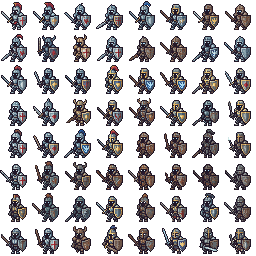
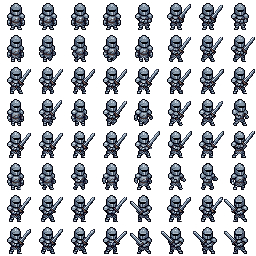
Ny bild på den levande rustningen
Tvåhandssvärd, ingen sköld, ingen röd kam och ingen vit ögonprick –
klassisk brittisk medeltida stil. Rutorna i arket bytta till
sta:16 (svärdet vilar över axeln) och anfall:63 (hugg mot hjältarna).

Claude-Session: https://claude.ai/code/session_01E1AUD1R16VvpqkHNpZgpEB

diff --git a/dev/figurval.js b/dev/figurval.js
@@ -43,7 +43,7 @@ window.FIGURVAL={
  askskelett:{sta:0,anfall:5},bandit:{sta:0,anfall:12,flip:true},bjorn:{sta:0,anfall:5,flip:true},bo:{sta:0,flip:true},dimvarg:{sta:0,anfall:4},dimvasen:{sta:0,anfall:1},
  eldimp:{sta:0,anfall:4},eldprast:{sta:0,anfall:4,flip:true},eldsalamander:{sta:0,anfall:4},ent:{cell:32,sta:0,anfall:4},fladdermus:{sta:0,anfall:2},gargoyl:{sta:0,anfall:1,flip:true},
  giftspindel:{sta:0,anfall:5},haxa:{sta:0,anfall:2,flip:true},irrbloss:{sta:0,anfall:9,storlek:1.2},kobold:{sta:0,anfall:7,flip:true},krak:{sta:0,anfall:1},krakor:{sta:0,anfall:1},
- kultist:{sta:0,anfall:4,flip:true},lavahund:{sta:0,anfall:9},levande_rustning:{sta:0,anfall:1},magmaslem:{sta:0,anfall:6},nekromantiker:{sta:0,anfall:5,flip:true},orm:{sta:0,anfall:5},
+ kultist:{sta:0,anfall:4,flip:true},lavahund:{sta:0,anfall:9},levande_rustning:{sta:16,anfall:63},magmaslem:{sta:0,anfall:6},nekromantiker:{sta:0,anfall:5,flip:true},orm:{sta:0,anfall:5},
  ratta:{sta:0,anfall:1,flip:true},rovarhovding:{sta:0,anfall:5,flip:true},skelett:{sta:0,anfall:1,flip:true},skuggling:{sta:0,anfall:1},slem:{sta:0,anfall:4},spindel:{sta:0,anfall:5},
  spoke:{sta:0,anfall:10},spokriddare:{sta:0,anfall:1},svampman:{sta:0,anfall:1,flip:true},troll:{sta:0,anfall:4},troll_is:{ark:"troll",sta:24,storlek:3},vampyrfladdermus:{sta:0,anfall:2},varg:{sta:0,anfall:10,flip:true},
  varulv:{sta:0,anfall:2},vatte:{sta:0,anfall:1,flip:true},vattesjaman:{sta:0,anfall:3,flip:true},vildsvin:{sta:0,anfall:8},

diff --git a/figurval.js b/figurval.js
@@ -43,7 +43,7 @@ window.FIGURVAL={
  askskelett:{sta:0,anfall:5},bandit:{sta:0,anfall:12,flip:true},bjorn:{sta:0,anfall:5,flip:true},bo:{sta:0,flip:true},dimvarg:{sta:0,anfall:4},dimvasen:{sta:0,anfall:1},
  eldimp:{sta:0,anfall:4},eldprast:{sta:0,anfall:4,flip:true},eldsalamander:{sta:0,anfall:4},ent:{cell:32,sta:0,anfall:4},fladdermus:{sta:0,anfall:2},gargoyl:{sta:0,anfall:1,flip:true},
  giftspindel:{sta:0,anfall:5},haxa:{sta:0,anfall:2,flip:true},irrbloss:{sta:0,anfall:9,storlek:1.2},kobold:{sta:0,anfall:7,flip:true},krak:{sta:0,anfall:1},krakor:{sta:0,anfall:1},
- kultist:{sta:0,anfall:4,flip:true},lavahund:{sta:0,anfall:9},levande_rustning:{sta:0,anfall:1},magmaslem:{sta:0,anfall:6},nekromantiker:{sta:0,anfall:5,flip:true},orm:{sta:0,anfall:5},
+ kultist:{sta:0,anfall:4,flip:true},lavahund:{sta:0,anfall:9},levande_rustning:{sta:16,anfall:63},magmaslem:{sta:0,anfall:6},nekromantiker:{sta:0,anfall:5,flip:true},orm:{sta:0,anfall:5},
  ratta:{sta:0,anfall:1,flip:true},rovarhovding:{sta:0,anfall:5,flip:true},skelett:{sta:0,anfall:1,flip:true},skuggling:{sta:0,anfall:1},slem:{sta:0,anfall:4},spindel:{sta:0,anfall:5},
  spoke:{sta:0,anfall:10},spokriddare:{sta:0,anfall:1},svampman:{sta:0,anfall:1,flip:true},troll:{sta:0,anfall:4},troll_is:{ark:"troll",sta:24,storlek:3},vampyrfladdermus:{sta:0,anfall:2},varg:{sta:0,anfall:10,flip:true},
  varulv:{sta:0,anfall:2},vatte:{sta:0,anfall:1,flip:true},vattesjaman:{sta:0,anfall:3,flip:true},vildsvin:{sta:0,anfall:8},

diff --git a/dev/sw.js b/dev/sw.js
@@ -4,7 +4,7 @@
 // Samma fil används i dev-kopian (mappen dev/). Den får en egen cache så att de inte stör varandra.
 const DEV = /\/dev\//.test(location.pathname);
 const PREFIX = DEV ? "tarningsriket-dev-" : "tarningsriket-v";
-const CACHE = PREFIX + "101";
+const CACHE = PREFIX + "102";
 const SHELL = ["./", "./index.html", "./aventyr.js", "./texter.js", "./scener.js", "./lager.js", "./ikoner.js", "./fx.js", "./gosedjur.js", "./bilder.js", "./figurval.js", "./bildlista.js", "./manifest.json", "./icons/icon-180.png", "./icons/icon-192.png", "./icons/icon-512.png"];
 
 self.addEventListener("install", e => {

diff --git a/sw.js b/sw.js
@@ -4,7 +4,7 @@
 // Samma fil används i dev-kopian (mappen dev/). Den får en egen cache så att de inte stör varandra.
 const DEV = /\/dev\//.test(location.pathname);
 const PREFIX = DEV ? "tarningsriket-dev-" : "tarningsriket-v";
-const CACHE = PREFIX + "101";
+const CACHE = PREFIX + "102";
 const SHELL = ["./", "./index.html", "./aventyr.js", "./texter.js", "./scener.js", "./lager.js", "./ikoner.js", "./fx.js", "./gosedjur.js", "./bilder.js", "./figurval.js", "./bildlista.js", "./manifest.json", "./icons/icon-180.png", "./icons/icon-192.png", "./icons/icon-512.png"];
 
 self.addEventListener("install", e => {
